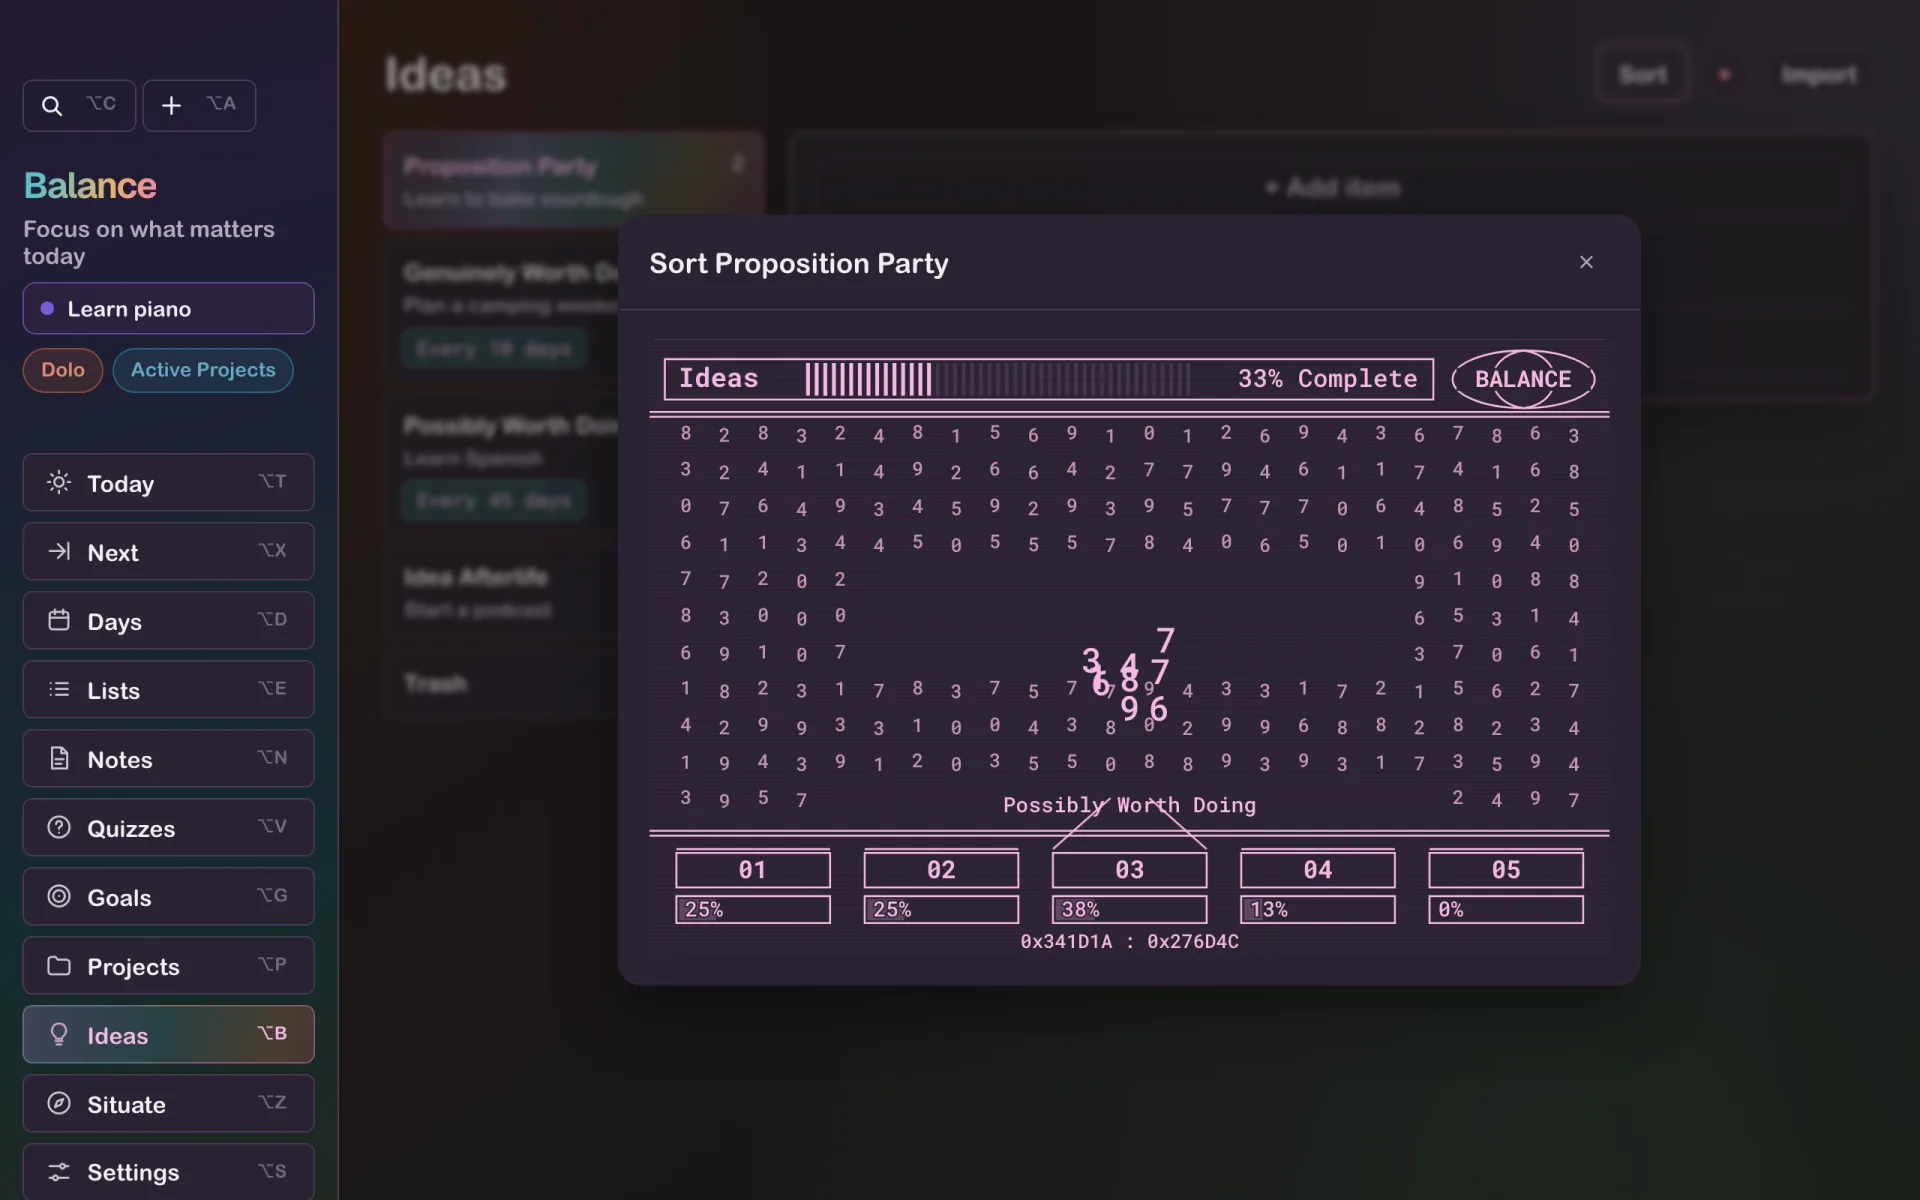
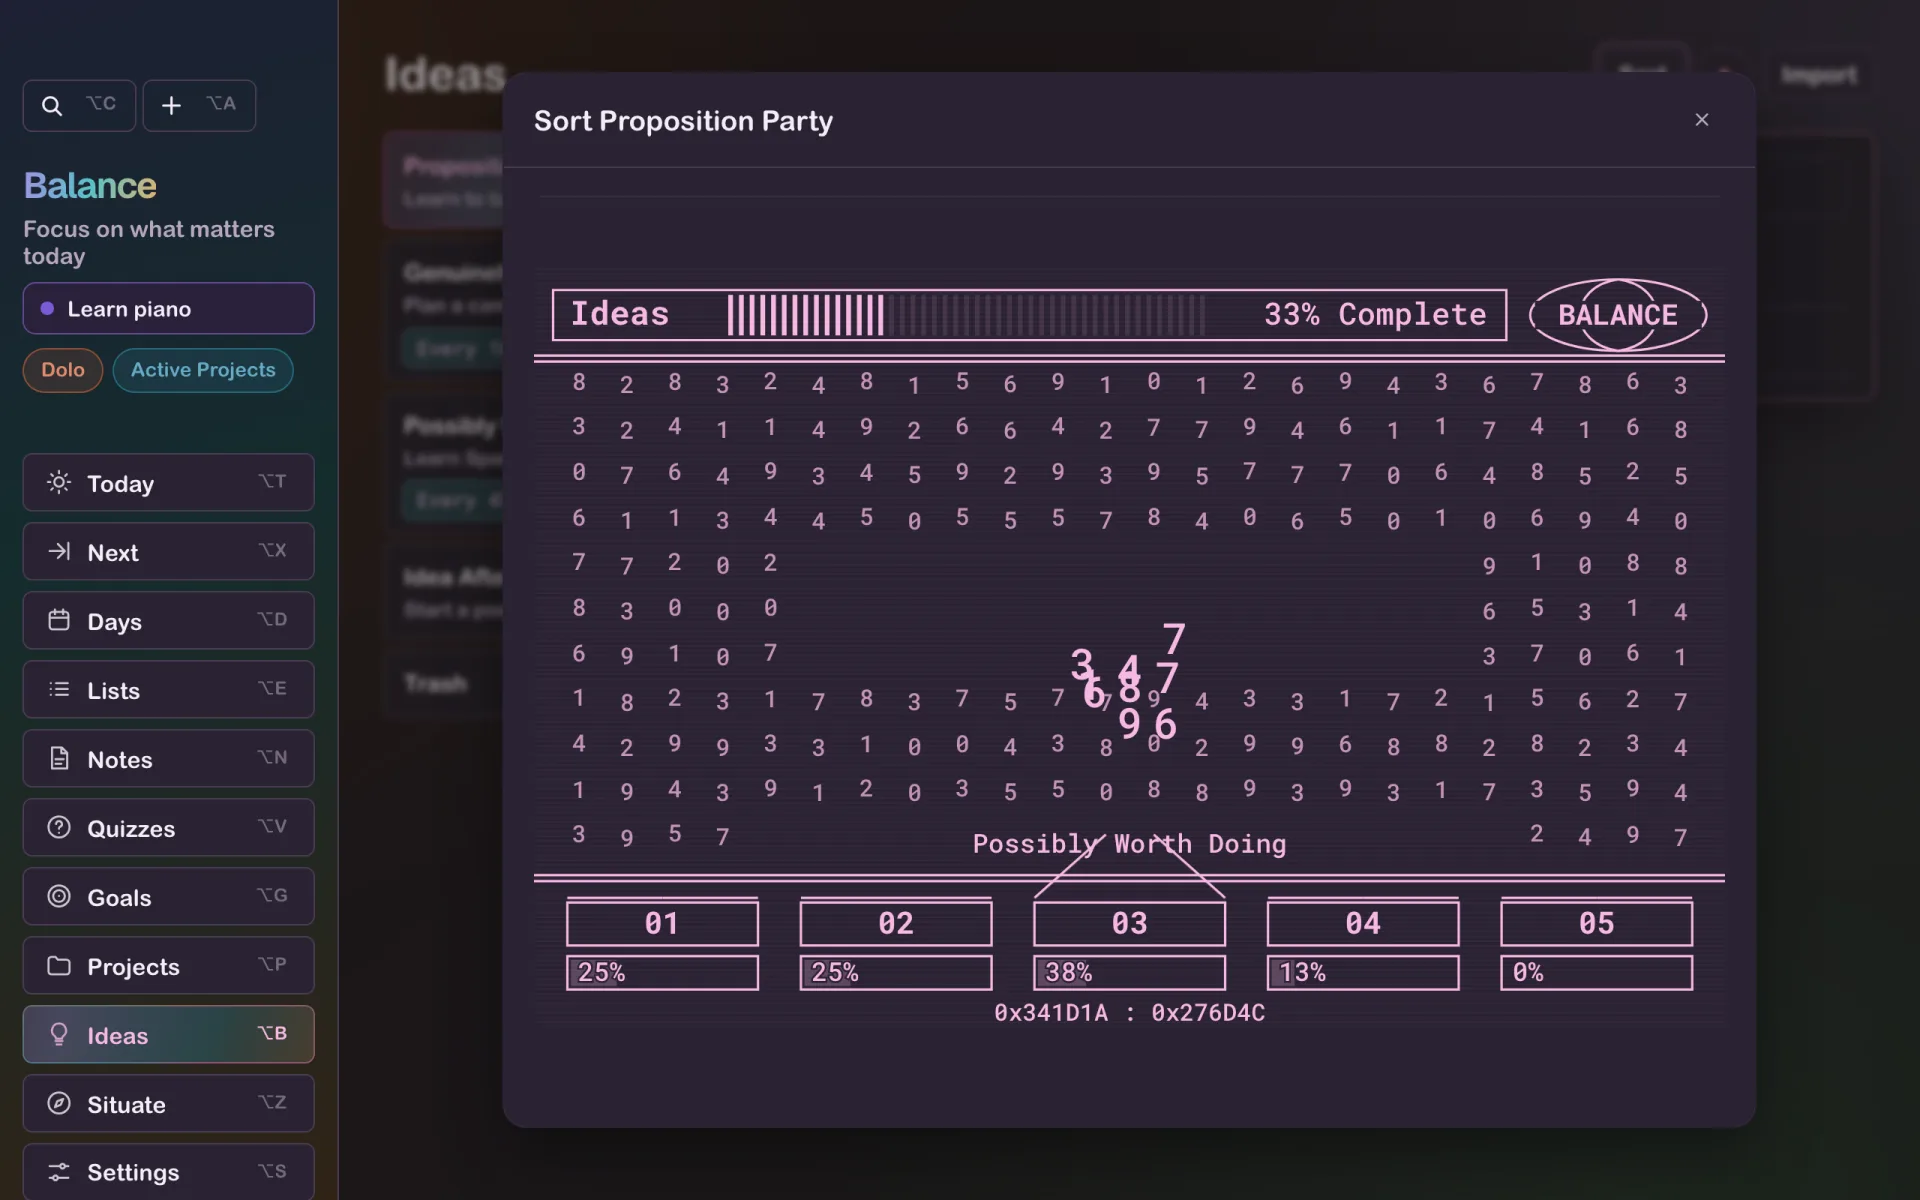
Give long ideas room in the idea sorter
The sorter's 1000:640 stage left about five lines for an idea and collapsed
the card to nothing on phones. It now uses a fixed 760x640 frame the card
fills, with less nested padding. System One reads ideas at 24px, not 32px.

diff --git a/tests/visual/ideas.spec.ts b/tests/visual/ideas.spec.ts
@@ -812,6 +812,20 @@ test('a due review blocks day generation until every older idea is sorted', asyn
   expect(await groups(page)).toMatchObject({ genuine: ['Synthetic fresh', 'Synthetic today'], possible: ['Synthetic maybe'] })
 })
 
+test('sort new ideas leaves a long idea readable with every control in reach', async ({ page }) => {
+  await open(page)
+  const words = Array.from({ length: 140 }, (_, index) => `synthetic${index}`).join(' ')
+  await storeCall(page, `plannerStore.addIdea(${JSON.stringify(words)})`)
+  await openView(page, 'Ideas')
+  await page.locator('.ideas-panel').getByRole('button', { name: 'Sort', exact: true }).click()
+  const list = sorter(page).locator('.paste-review-list')
+  await expect(sorter(page).locator('.idea-sort-card')).toContainText('synthetic0')
+  const box = await list.boundingBox()
+  expect(box!.height).toBeGreaterThan(180)
+  await expect(sorter(page).getByRole('button', { name: 'Yes (Y)' })).toBeInViewport()
+  await expect(sorter(page).locator('.paste-review-hint')).toBeInViewport()
+})
+
 test('sort new ideas opens web links by click and Option-F without advancing', async ({ page }) => {
   await open(page)
   await storeCall(page, `

diff --git a/src/app.css b/src/app.css
@@ -7682,8 +7682,21 @@ textarea.note-title {
 
 /* ---- Idea groups ------------------------------------------------------- */
 
+/* The card takes whatever the fixed frame leaves, so buttons stay put between
+   ideas. Short ideas sit mid-frame; long ones scroll from their first line. */
 .idea-sort .paste-review-list {
-  max-height: 46dvh;
+  flex: 1 1 auto;
+  align-content: safe center;
+  padding: 4px;
+}
+
+/* The shared card's 1% scale would knock long text off the pixel grid. */
+.idea-sort .paste-review-item.current {
+  transform: none;
+}
+
+.idea-sort .paste-review-text {
+  padding: 4px 6px;
 }
 
 .idea-sort-intro {

diff --git a/src/retro-themes.css b/src/retro-themes.css
@@ -319,6 +319,15 @@
   font-size: 32px;
   line-height: 1;
 }
+/* Whole ideas are read here, so they get less than the day view's 32px. */
+:root[data-theme='system1'] .idea-sort .paste-review-text {
+  font-size: 24px;
+  line-height: 1.25;
+}
+:root[data-theme='system1'] .idea-sort .idea-sort-child-text {
+  font-size: 16px;
+  line-height: 20px;
+}
 :root[data-theme='system1'] :is(.time-range, .date-input, .word-cap-count) {
   font-family: var(--font-mono);
   font-size: 24px;

diff --git a/src/lib/IdeaSortModal.svelte b/src/lib/IdeaSortModal.svelte
@@ -402,7 +402,8 @@
   {title}
   class="idea-sort"
   z={65}
-  maxWidth={620}
+  maxWidth={760}
+  height={intro && introOpen ? null : 640}
   fill
   closeOnEscape={false}
   onClose={() => onFinish(false)}
@@ -549,7 +550,6 @@
     position: relative;
     display: flex;
     flex-direction: column;
-    aspect-ratio: 1000 / 640;
   }
   .paste-review { flex: 1; min-height: 0; }
   .refining > .paste-review { pointer-events: none; }
